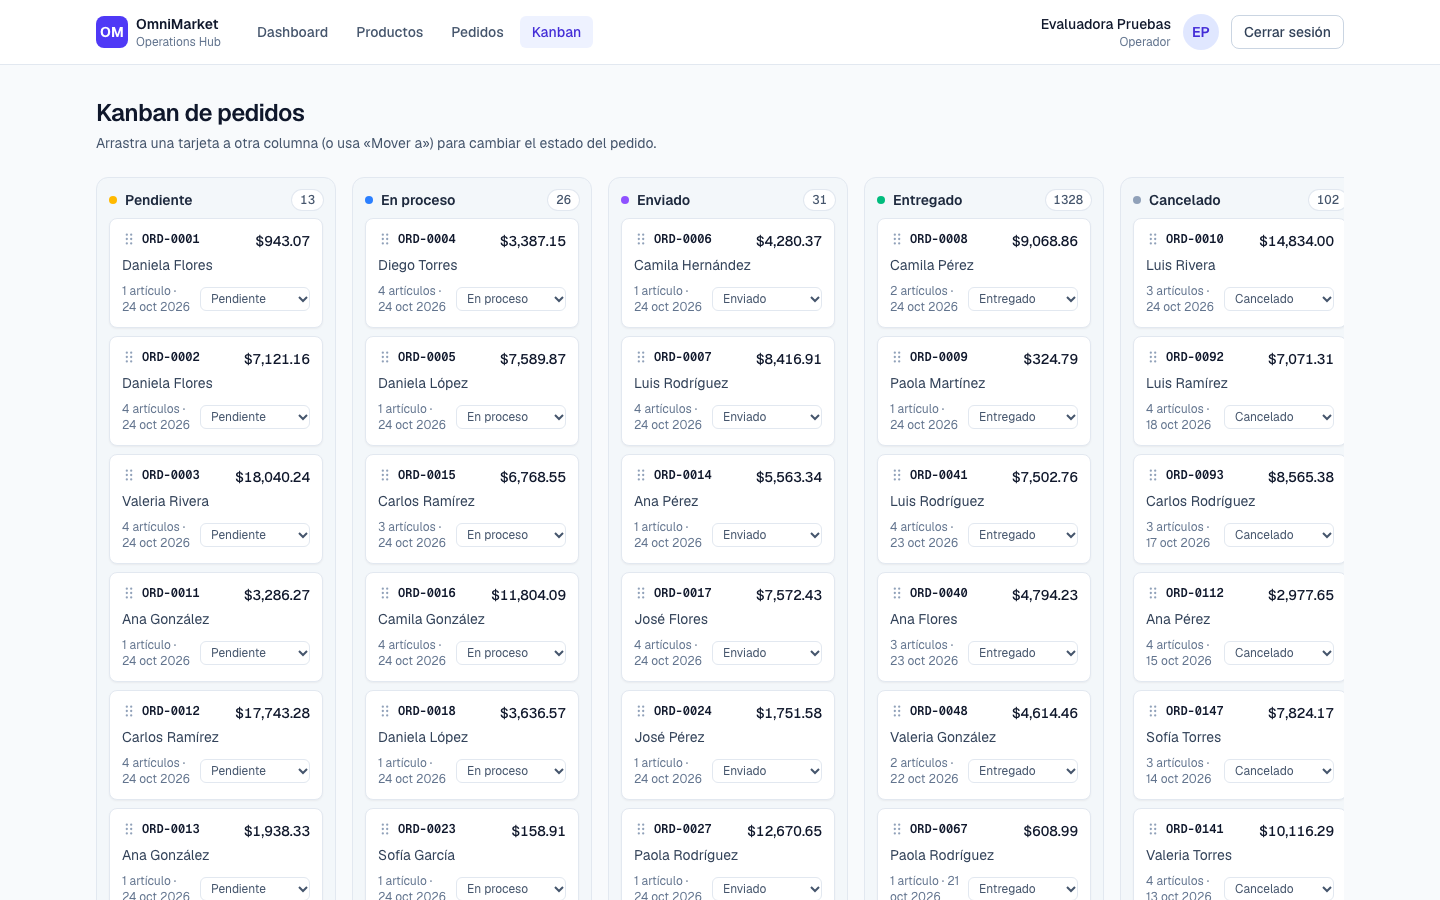
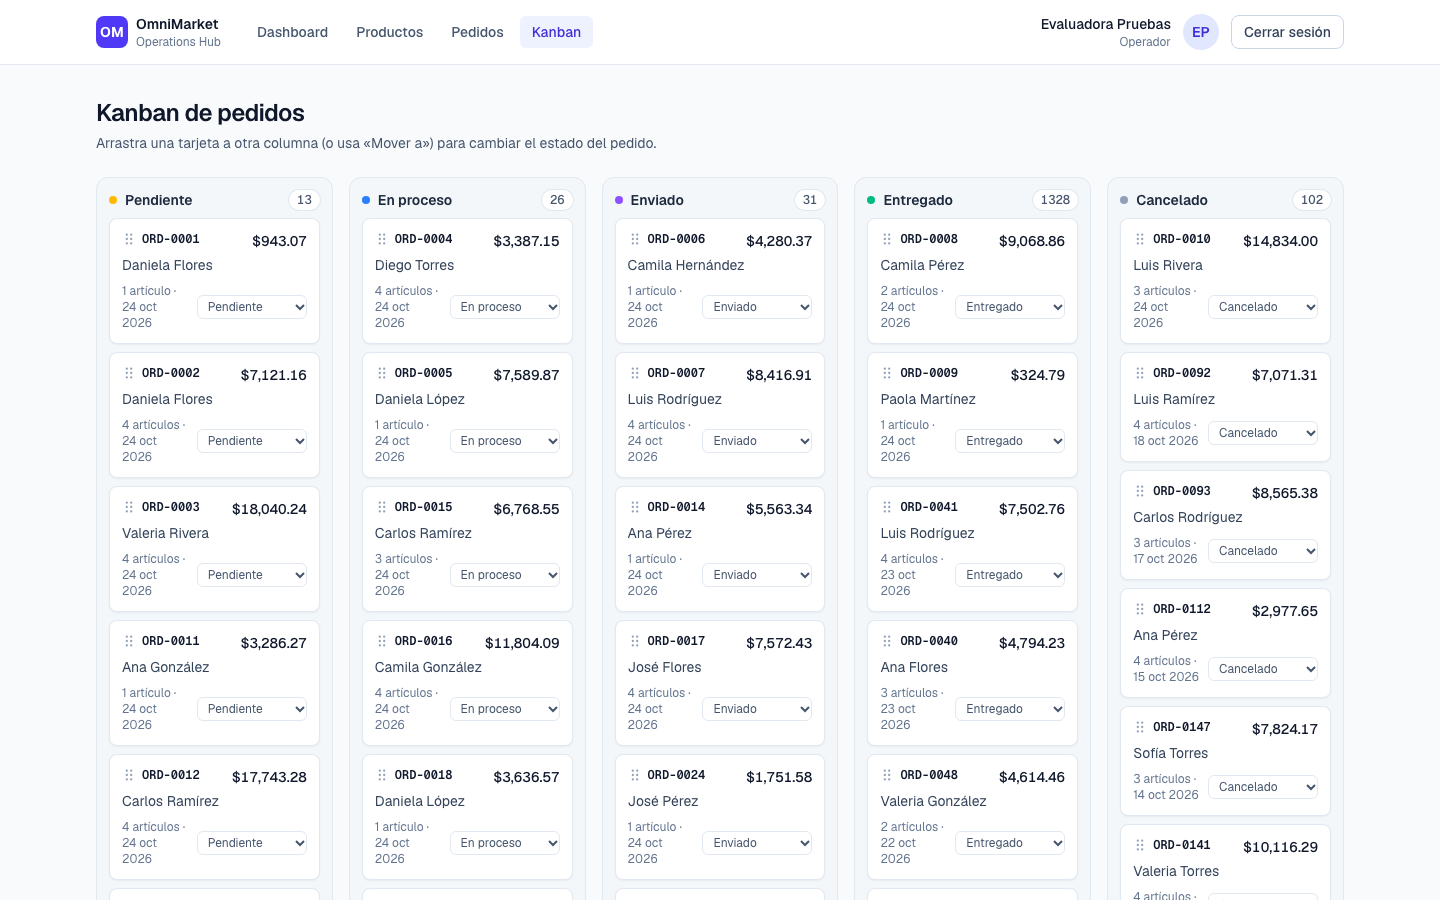
docs(F8): captura del Kanban actualizada y cierre de la matriz

diff --git a/docs/PROJECT_PLAN.md b/docs/PROJECT_PLAN.md
@@ -397,7 +397,7 @@ Cada fase termina con algo **desplegado y verificable**. No se pasa de fase con 
 
 ## 9. Matriz de cumplimiento
 
-Última actualización: cierre de F7 (2026-10-24). Evidencia en el historial de GitHub Actions y en el resumen de cada fase.
+Última actualización: cierre de F8 (2026-10-24): lista de comprobación §6 verificada en producción con un navegador limpio. Evidencia en el historial de GitHub Actions y en el resumen de cada fase.
 
 | Req.            | Descripción                         | §    | Fase   | Cómo se verifica                                                                                                                            | Estado                                                                                                                              |
 | --------------- | ----------------------------------- | ---- | ------ | ------------------------------------------------------------------------------------------------------------------------------------------- | ----------------------------------------------------------------------------------------------------------------------------------- |
